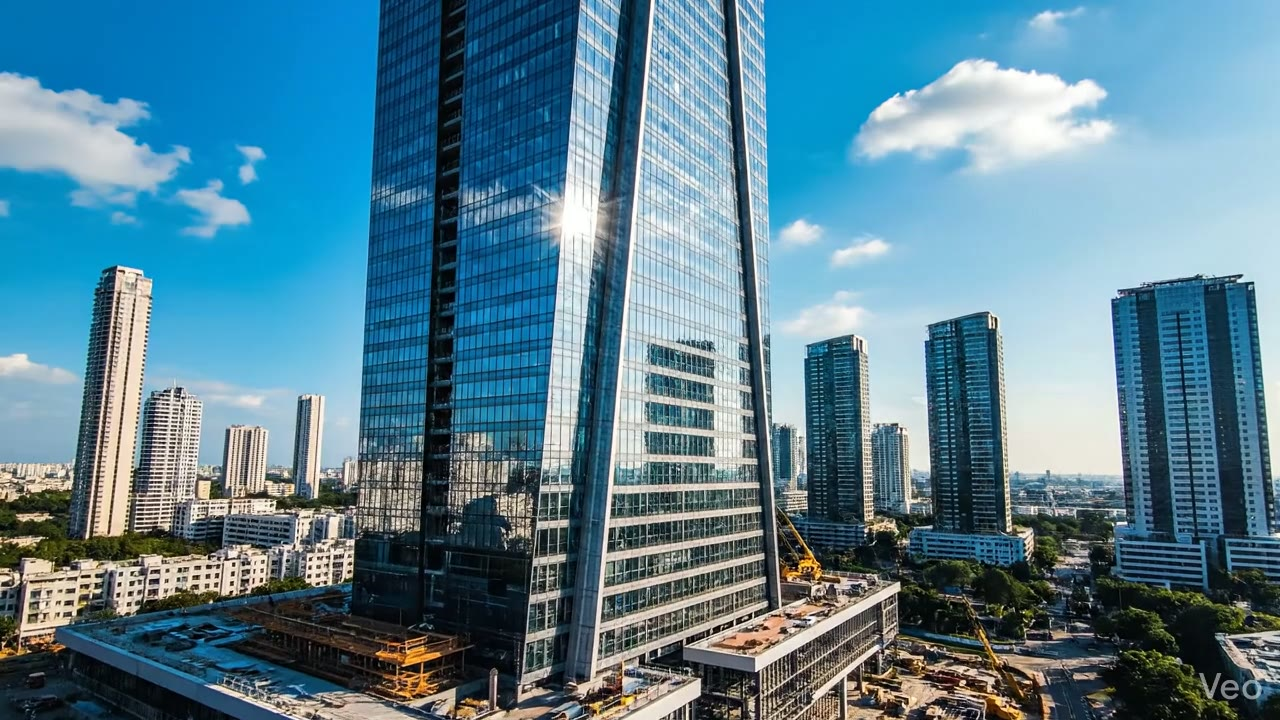
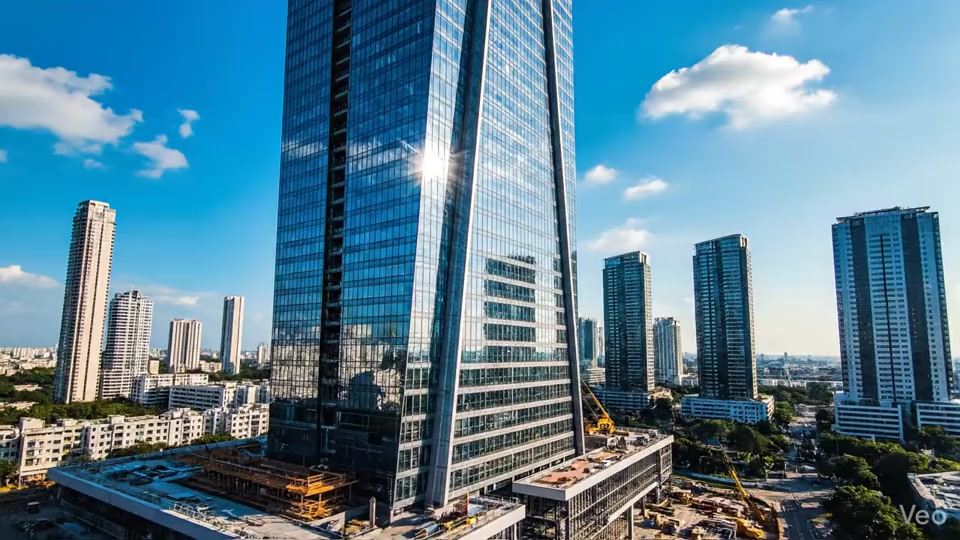
Optimize hero video loading: instant first-frame poster layer with buffer-gated smooth playback

Changed region(s): [[0.0, 0.0, 1.0, 1.0], [0.6562, 0.4741, 0.6875, 0.5037]]

diff --git a/src/js/main.js b/src/js/main.js
@@ -22,8 +22,8 @@ document.addEventListener('DOMContentLoaded', () => {
   initContactForm();
   initSmoothScroll();
   initRoadmapAnimation();
-  initLeadershipTilt(); // Added initLeadershipTilt
-  // initFaqAccordion(); // Added initFaqAccordion - assuming this was intended to be added as well
+  initLeadershipTilt();
+  initHeroVideo();
 
   // Initialize Lucide icons
   if (window.lucide) {
@@ -31,19 +31,52 @@ document.addEventListener('DOMContentLoaded', () => {
   }
 });
 
+/* ── HERO VIDEO BUFFERING & SEAMLESS PLAYBACK ── */
 function initHeroVideo() {
   const video = document.getElementById('heroVideo');
+  const poster = document.getElementById('heroPosterLayer');
   if (!video) return;
 
-  const playWhenReady = () => {
-    if (video.paused) video.play().catch(() => {});
-  };
+  let hasStarted = false;
 
-  video.addEventListener('canplay', playWhenReady);
+  function startPlayback() {
+    if (hasStarted) return;
+    hasStarted = true;
+
+    video.play().then(() => {
+      video.style.opacity = '1';
+      if (poster) {
+        setTimeout(() => {
+          poster.style.opacity = '0';
+        }, 600);
+      }
+    }).catch(() => {
+      // If autoplay policy blocks, show video at current frame
+      video.style.opacity = '1';
+    });
+  }
+
+  // Only start playing when the browser has buffered enough to play continuously
+  if (video.readyState >= 3) {
+    startPlayback();
+  } else {
+    video.addEventListener('canplaythrough', startPlayback, { once: true });
+    video.addEventListener('canplay', startPlayback, { once: true });
+    video.addEventListener('loadeddata', () => {
+      if (video.readyState >= 3) startPlayback();
+    }, { once: true });
+  }
+
   document.addEventListener('visibilitychange', () => {
-    if (!document.hidden) playWhenReady();
+    if (!document.hidden && hasStarted && video.paused) {
+      video.play().catch(() => {});
+    }
   });
-  playWhenReady();
+
+  // Safety timeout: ensure playback begins even on slow connections
+  setTimeout(() => {
+    if (!hasStarted) startPlayback();
+  }, 4000);
 }
 
 /* ── PRELOADER ── */

diff --git a/index.html b/index.html
@@ -25,7 +25,8 @@
   <!-- Favicons -->
   <link rel="icon" type="image/png" sizes="32x32" href="./images/logo.png">
   <link rel="icon" type="image/png" sizes="16x16" href="./images/logo.png">
-  <!-- Preload Hero Video for Instant Playback -->
+  <!-- Preload First Appearance Image & Hero Video for Instant Playback -->
+  <link rel="preload" as="image" href="./images/hero-poster.jpg" fetchpriority="high">
   <link rel="preload" as="video" href="./videos/hero-bg.mp4" type="video/mp4" fetchpriority="high">
 
   <link rel="stylesheet" href="./src/styles/main.css" />
@@ -81,7 +82,15 @@
   <div id="home"
     style="display: block; width: 100%; height: 100vh; background: #000; overflow: hidden; position: relative; margin-top: 0;">
     <!-- The margin-top clears the navbar -->
-    <video id="heroVideo" autoplay loop muted playsinline preload="auto" poster="./images/hero-poster.jpg" style="width: 100%; height: 100%; object-fit: cover;">
+
+    <!-- Instant First Appearance Image (Renders immediately, matches video frame 0 pixel-for-pixel) -->
+    <div id="heroPosterLayer"
+      style="position: absolute; inset: 0; width: 100%; height: 100%; background: #000 url('./images/hero-poster.jpg') center center / cover no-repeat; z-index: 1; pointer-events: none; transition: opacity 0.8s ease;">
+    </div>
+
+    <!-- Video Element (Starts hidden, plays automatically only when fully loaded and buffered) -->
+    <video id="heroVideo" loop muted playsinline preload="auto" poster="./images/hero-poster.jpg"
+      style="position: absolute; inset: 0; width: 100%; height: 100%; object-fit: cover; z-index: 2; opacity: 0; transition: opacity 0.8s ease;">
       <source src="./videos/hero-bg.mp4" type="video/mp4">
     </video>
 
